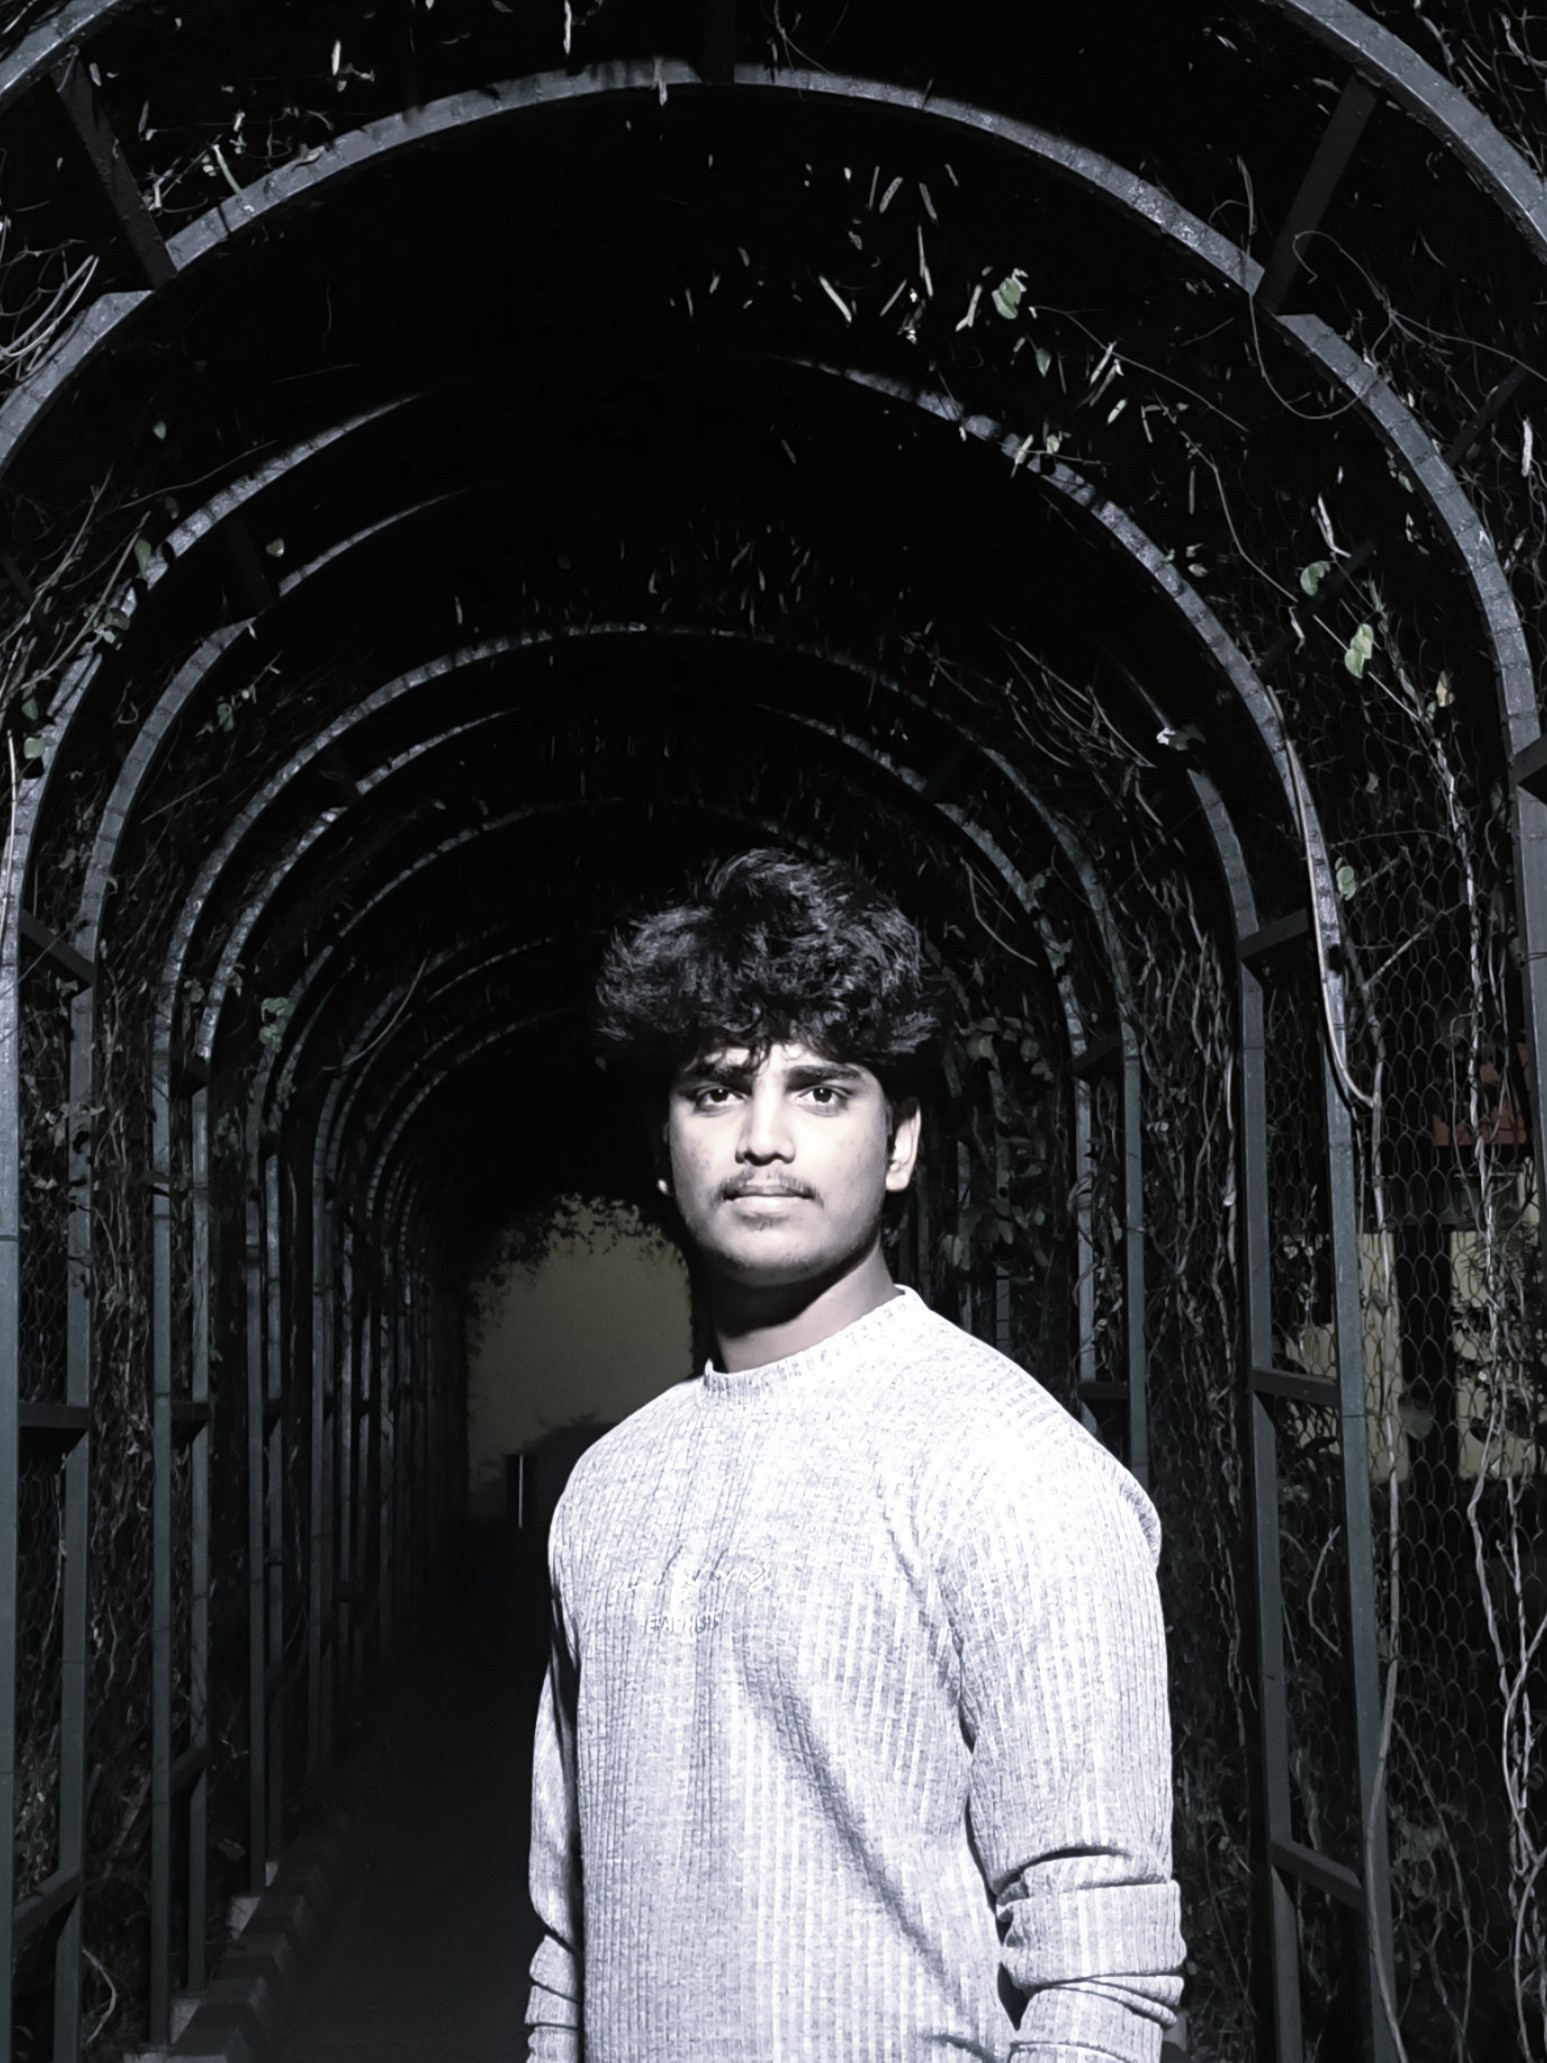
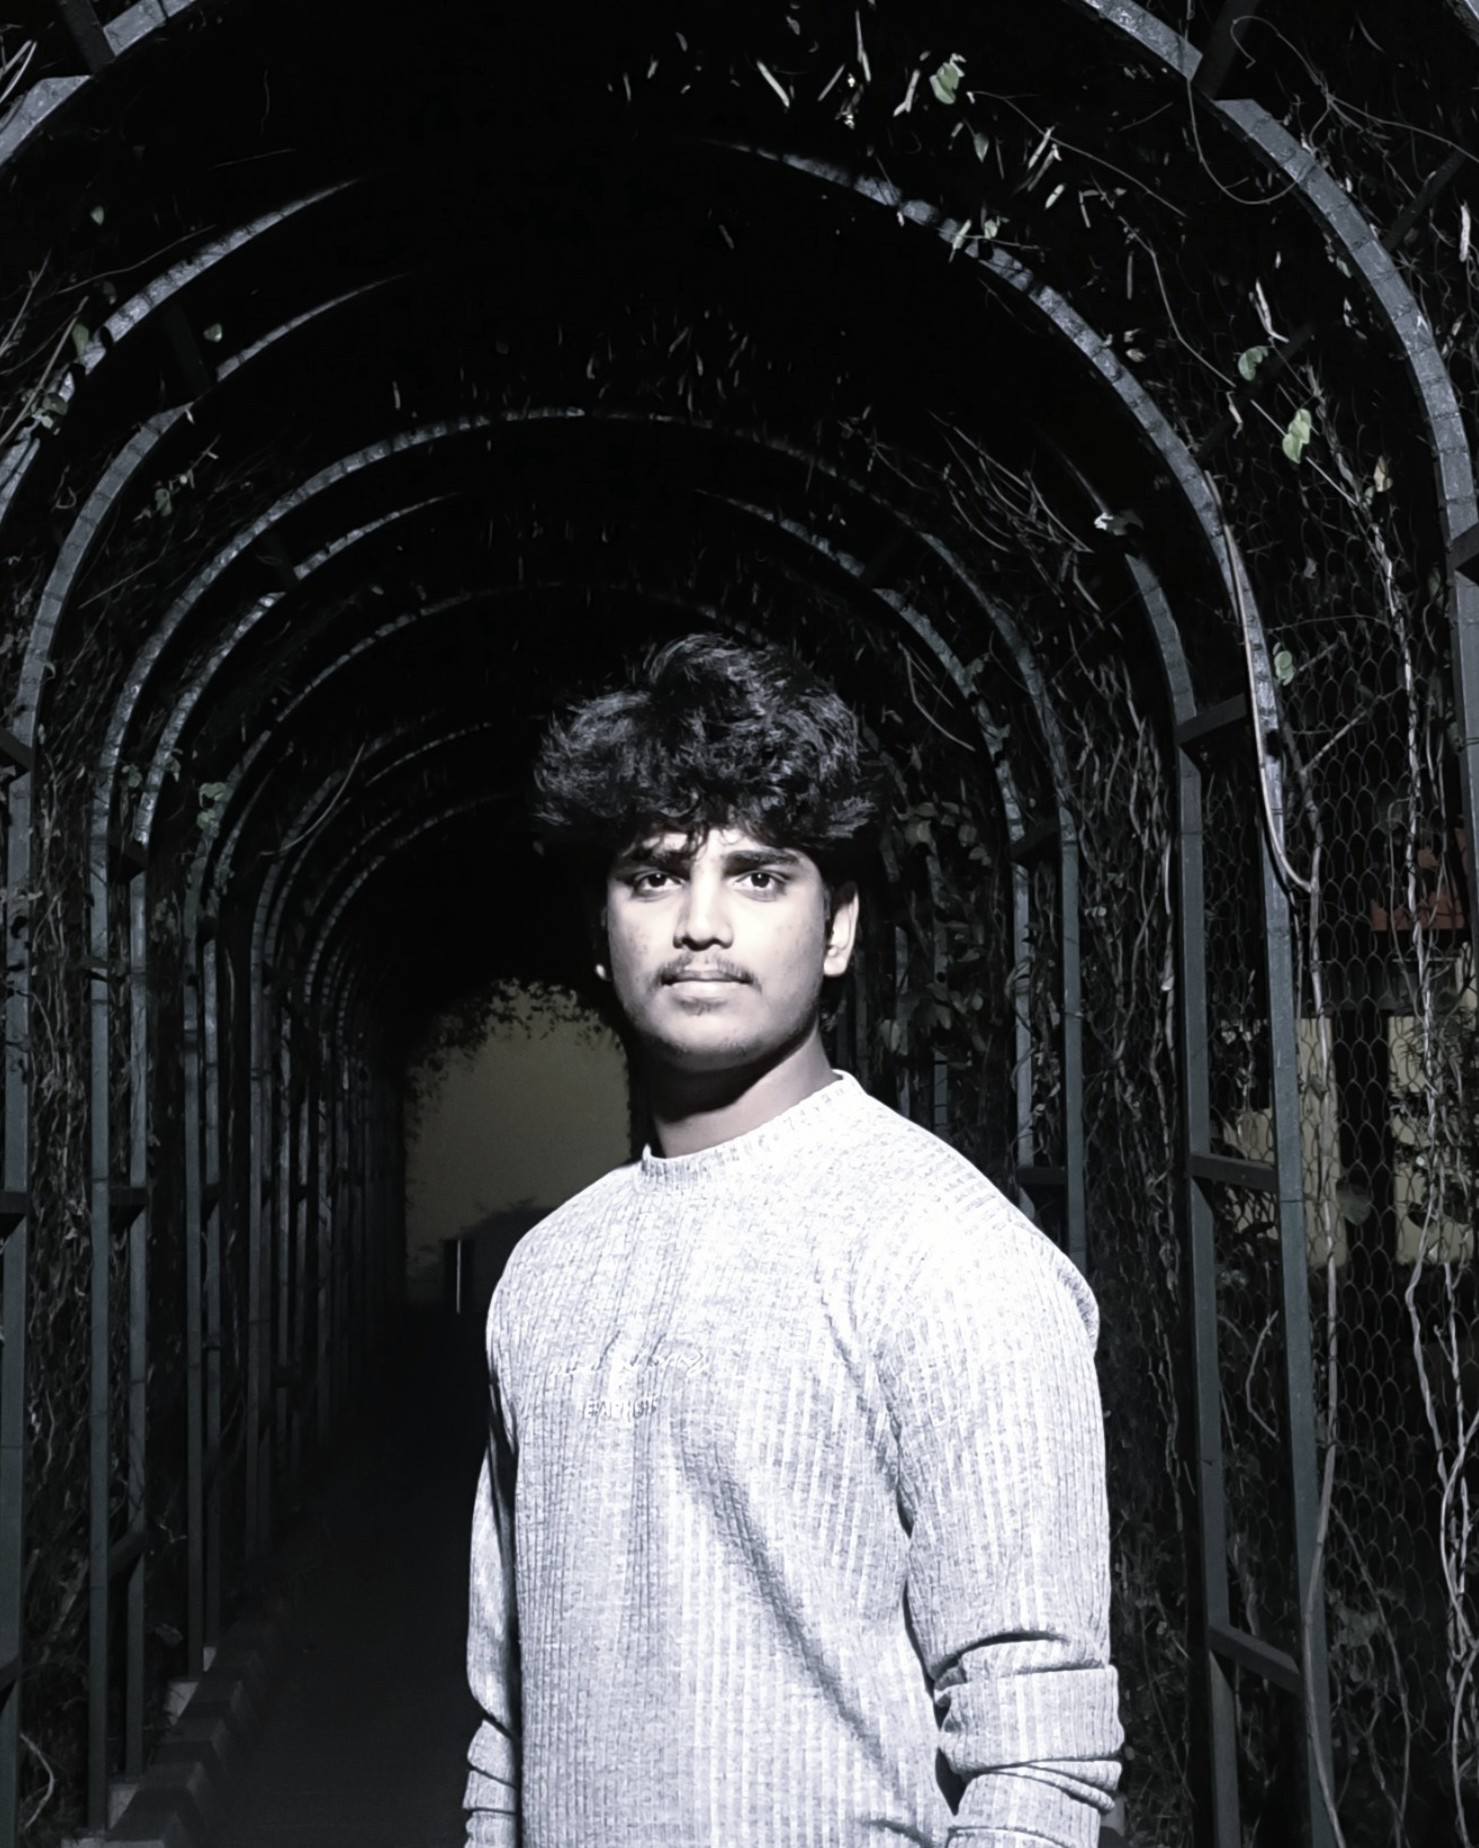
changing the design

diff --git a/src/components/sanjayn/hero.jsx b/src/components/sanjayn/hero.jsx
@@ -1,5 +1,5 @@
-import { useState, useEffect, useRef } from 'react';
-import SanjayImage from '../../assert/image/SanjayN.png';
+import { useEffect, useState } from 'react';
+import AboutImage from '../../assert/image/mine.jpg';
 
 const roles = [
   'A Freelancer',
@@ -7,24 +7,15 @@ const roles = [
   'Software Developer',
 ];
 
-const skills = [
-  { name: 'React js', color: 'from-blue-500 to-cyan-500' },
-  { name: 'Git & Github', color: 'from-gray-500 to-blue-500' },
-  { name: 'PostgreSql', color: 'from-indigo-500 to-blue-500' },
-  { name: 'Python', color: 'from-yellow-500 to-orange-500' },
-  { name: 'Java', color: 'from-green-500 to-emerald-500' },
-  { name: 'Power BI', color: 'from-purple-500 to-pink-500' },
-  { name: 'Tailwind CSS', color: 'from-teal-500 to-green-500' },
-  { name: 'JavaScript', color: 'from-red-500 to-orange-500' },
-  { name: 'ML & DL', color: 'from-pink-500 to-rose-500' },
-  { name: 'Firebase', color: 'from-purple-500 to-indigo-500' },
+const quickHighlights = [
+  'Problem-Solving Builder',
+  'Practical AI + Product Thinking',
+  'Open to Real-World Collaborations',
 ];
 
 const Hero = () => {
-  const containerRef = useRef(null);
-  const [containerSize, setContainerSize] = useState(520);
-  const [positions, setPositions] = useState({});
   const [activeRoleIndex, setActiveRoleIndex] = useState(0);
+  const [activeHighlightIndex, setActiveHighlightIndex] = useState(0);
 
   useEffect(() => {
     const timer = window.setInterval(() => {
@@ -33,96 +24,13 @@ const Hero = () => {
     return () => window.clearInterval(timer);
   }, []);
 
-  // Update container size and recalculate positions on resize
   useEffect(() => {
-    const updateSize = () => {
-      if (containerRef.current) {
-        const rect = containerRef.current.getBoundingClientRect();
-        const size = Math.min(rect.width, rect.height);
-        setContainerSize(size);
+    const timer = window.setInterval(() => {
+      setActiveHighlightIndex(prev => (prev + 1) % quickHighlights.length);
+    }, 2300);
 
-        const center = size / 2;
-        const itemsPerLayer = 5;
-        const newPositions = {};
-
-        skills.forEach((skill, index) => {
-          const layer = index < itemsPerLayer ? 1 : 2;
-          const layerIndex = layer === 1 ? index : index - itemsPerLayer;
-          const segment = 360 / itemsPerLayer;
-          const stagger = layer === 2 ? segment / 2 : 0;
-          const angleDeg = layerIndex * segment + stagger;
-          const angle = (angleDeg * Math.PI) / 180;
-
-          const baseRadius1 = 150;
-          const baseRadius2 = 240;
-          const scale = size / 520;
-          const radius = layer === 1 ? baseRadius1 * scale : baseRadius2 * scale;
-
-          const minRadius1 = 80;
-          const minRadius2 = 140;
-          const adjustedRadius = Math.max(layer === 1 ? minRadius1 : minRadius2, radius);
-
-          const x = center + adjustedRadius * Math.cos(angle);
-          const y = center + adjustedRadius * Math.sin(angle);
-
-          newPositions[skill.name] = {
-            left: `${x}px`,
-            top: `${y}px`,
-          };
-        });
-
-        setPositions(newPositions);
-      }
-    };
-
-    updateSize();
-    window.addEventListener('resize', updateSize);
-    return () => window.removeEventListener('resize', updateSize);
+    return () => window.clearInterval(timer);
   }, []);
-
-  // Calculate line positions for SVG
-  const [svgViewBox, setSvgViewBox] = useState('0 0 520 520');
-  const [lines, setLines] = useState([]);
-
-  useEffect(() => {
-    const center = containerSize / 2;
-    const itemsPerLayer = 5;
-    const baseRadius1 = 150;
-    const baseRadius2 = 240;
-    const scale = containerSize / 520;
-    const minRadius1 = 80;
-    const minRadius2 = 140;
-
-    setSvgViewBox(`0 0 ${containerSize} ${containerSize}`);
-
-    const newLines = [];
-    skills.forEach((_, index) => {
-      const layer = index < itemsPerLayer ? 1 : 2;
-      const layerIndex = layer === 1 ? index : index - itemsPerLayer;
-      const segment = 360 / itemsPerLayer;
-      const stagger = layer === 2 ? segment / 2 : 0;
-      const angle = ((layerIndex * segment + stagger) * Math.PI) / 180;
-      const radius = Math.max(layer === 1 ? minRadius1 : minRadius2, (layer === 1 ? baseRadius1 : baseRadius2) * scale);
-      const x = center + radius * Math.cos(angle);
-      const y = center + radius * Math.sin(angle);
-
-      newLines.push(
-        <line
-          key={`line-${index}`}
-          x1={center}
-          y1={center}
-          x2={x}
-          y2={y}
-          stroke="url(#lineGradient)"
-          strokeWidth={1.5}
-          strokeDasharray="3 3"
-          className="opacity-70"
-        />
-      );
-    });
-
-    setLines(newLines);
-  }, [containerSize]);
 
   const scrollToSection = (id) => {
     const element = document.getElementById(id);
@@ -171,12 +79,32 @@ const Hero = () => {
           </div>
 
           {/* Description */}
-          <p className="animate-fade-up animate-delay-300 text-silver-muted text-base md:text-lg max-w-xl mx-auto mb-6 leading-relaxed">
-            Crafting intelligent solutions at the intersection of artificial intelligence and elegant software engineering
+          <p className="animate-fade-up animate-delay-300 text-silver-muted text-base md:text-lg max-w-xl mx-auto mb-3 leading-relaxed">
+            I am passionate about solving real-world problems through practical software and intelligent solutions, and always learning and applying new ideas to make a meaningful impact.
+          </p>
+          <p className="animate-fade-up animate-delay-300 text-silver-secondary text-sm md:text-base max-w-xl mx-auto mb-6 leading-relaxed">
+            Currently pursuing B.Tech in{' '}
+            <span className="text-glow-cyan font-semibold">Artificial Intelligence and Machine Learning</span>.
+            {' '}at Kongu Engineering College.
           </p>
 
+          <div className="animate-fade-up animate-delay-400 relative h-6 overflow-hidden mb-6">
+            {quickHighlights.map((line, index) => (
+              <p
+                key={line}
+                className={`absolute inset-0 text-sm md:text-base font-medium transition-all duration-500 ${
+                  index === activeHighlightIndex
+                    ? 'translate-y-0 opacity-100 text-glow-cyan'
+                    : 'translate-y-4 opacity-0 text-silver-muted'
+                }`}
+              >
+                {line}
+              </p>
+            ))}
+          </div>
+
           {/* CTA Buttons */}
-          <div className="animate-fade-up animate-delay-400 flex flex-col sm:flex-row gap-3 justify-center lg:justify-start items-stretch sm:items-center mt-2">
+          <div className="animate-fade-up animate-delay-500 flex flex-col sm:flex-row gap-3 justify-center lg:justify-start items-stretch sm:items-center mt-2">
             <button
               onClick={() => scrollToSection('projects')}
               className="group relative px-8 py-3.5 bg-space-card border border-glow-cyan/30 rounded-xl text-silver-primary font-medium transition-all duration-500 hover-glow-cyan hover:border-glow-cyan/60 flex items-center justify-center gap-2 w-full sm:w-auto"
@@ -193,57 +121,31 @@ const Hero = () => {
           </div>
         </div>
 
-        {/* RIGHT: Visual hub — hidden on xs, visible from sm */}
-        <div className="hidden sm:flex w-full lg:w-1/2 items-center justify-center">
-          <div ref={containerRef} className="relative w-[300px] h-[300px] sm:w-[380px] sm:h-[380px] md:w-[440px] md:h-[440px] lg:w-[520px] lg:h-[520px]">
-            {/* Center main circle */}
-            <div className="absolute left-1/2 top-1/2 -translate-x-1/2 -translate-y-1/2">
-              <div className="relative w-64 h-64 sm:w-72 sm:h-72 lg:w-80 lg:h-80 max-w-full max-h-full">
-                <div className="relative w-full h-full bg-gradient-to-br from-glow-cyan to-glow-blue rounded-full flex items-center justify-center shadow-2xl border-2 border-glow-cyan/50 transform transition-transform duration-500 group-hover:scale-105">
-                  <div className="w-52 h-52 sm:w-56 sm:h-56 bg-blue-900/95 rounded-2xl flex items-center justify-center shadow-inner max-w-full max-h-full">
-                    <img
-                      src={SanjayImage}
-                      alt="Sanjay N - Full Stack Developer and AI Engineer"
-                      className="w-48 h-48 sm:w-52 sm:h-52 object-cover rounded-lg animate-float max-w-full max-h-full"
-                    />
-                  </div>
+        {/* RIGHT: Dynamic portrait */}
+        <div className="w-full lg:w-1/2 flex items-center justify-center">
+          <div className="relative w-[280px] h-[360px] sm:w-[340px] sm:h-[430px] md:w-[390px] md:h-[500px]">
+            <div className="absolute -inset-2 rounded-[2rem] bg-gradient-to-tr from-glow-cyan/45 via-transparent to-glow-blue/35 blur-lg animate-pulse" />
+
+            <div className="relative h-full w-full rounded-[2rem] border border-glow-cyan/30 bg-space-card/65 backdrop-blur-xl p-3 md:p-4">
+              <div className="relative h-full w-full overflow-hidden rounded-[1.5rem] border border-border/60 bg-space-deep">
+                <img
+                  src={AboutImage}
+                  alt="Sanjay N portrait"
+                  className="h-full w-full object-cover animate-float"
+                  loading="lazy"
+                />
+                <div className="absolute inset-0 bg-gradient-to-t from-space-deep/55 via-transparent to-transparent" />
+
+                <div className="absolute left-4 top-4 rounded-full border border-glow-cyan/45 bg-space-card/80 px-3 py-1.5 text-xs font-semibold text-glow-cyan">
+                  Freelancer
+                </div>
+
+                <div className="absolute bottom-4 left-4 right-4 rounded-xl border border-border/60 bg-space-card/80 p-3 backdrop-blur-sm">
+                  <p className="text-xs uppercase tracking-wider text-silver-muted">Now Building</p>
+                  <p className="mt-1 text-sm font-semibold text-silver-primary">Software Solutions, ML Models, and AI Integrations</p>
                 </div>
               </div>
             </div>
-
-            {/* Surrounding skill circles (dynamic positions) */}
-            {skills.map((skill) => {
-              const pos = positions[skill.name];
-              if (!pos) return null;
-
-              return (
-                <div
-                  key={skill.name}
-                  className="absolute -translate-x-1/2 -translate-y-1/2"
-                  style={{ left: pos.left, top: pos.top }}
-                >
-                  <div className="relative flex items-center justify-center" title={skill.name} tabIndex={0} role="button" aria-pressed="false"
-                    onKeyDown={(e) => { if (e.key === 'Enter' || e.key === ' ') e.currentTarget.click(); }}
-                  >
-                    {/* circle — responsive size */}
-                    <div className={`relative w-14 h-14 sm:w-16 sm:h-16 lg:w-20 lg:h-20 bg-gradient-to-br ${skill.color} rounded-full flex flex-col items-center justify-center p-2 shadow-md border border-white/20 transform transition-all duration-400 hover:scale-110 focus:scale-110 max-w-full max-h-full`}>
-                      <span className="text-[10px] sm:text-xs font-semibold text-white text-center leading-tight mt-1 max-w-[64px] truncate">{skill.name}</span>
-                    </div>
-                  </div>
-                </div>
-              );
-            })}
-
-            {/* Connecting lines — dynamic SVG */}
-            <svg className="absolute inset-0 w-full h-full pointer-events-none" viewBox={svgViewBox} preserveAspectRatio="xMidYMid meet" aria-hidden>
-              <defs>
-                <linearGradient id="lineGradient" x1="0%" y1="0%" x2="100%" y2="0%">
-                  <stop offset="0%" stopColor="#22D3EE" stopOpacity="0.35" />
-                  <stop offset="100%" stopColor="#60A5FA" stopOpacity="0.35" />
-                </linearGradient>
-              </defs>
-              {lines}
-            </svg>
           </div>
         </div>
       </div>

diff --git a/src/pages/sanjayn.jsx b/src/pages/sanjayn.jsx
@@ -6,7 +6,6 @@ import SpaceBackground from '../components/sanjayn/SpaceBackground';
 import StarCursor from '../components/sanjayn/StarCursor';
 
 // Lazy load heavy sections — each in its own Suspense boundary
-const About          = lazy(() => import('../components/sanjayn/about'));
 const Experience     = lazy(() => import('../components/sanjayn/experience'));
 const Achievements   = lazy(() => import('../components/sanjayn/achievements'));
 const Certifications = lazy(() => import('../components/sanjayn/certifications'));
@@ -71,10 +70,6 @@ const SanjayN = () => {
             still downloading, ALL of them showed the fallback (blank area between
             navbar and footer).
           */}
-          <Suspense fallback={<SectionSkeleton height="h-96" />}>
-            <About />
-          </Suspense>
-
           <Suspense fallback={<SectionSkeleton height="h-96" />}>
             <Experience />
           </Suspense>

diff --git a/src/components/sanjayn/navbar.jsx b/src/components/sanjayn/navbar.jsx
@@ -9,7 +9,6 @@ const Navbar = () => {
   const mobileToggleButtonRef = useRef(null);
   const navLinks = [
     { id: 'hero', label: 'Home' },
-    { id: 'about', label: 'About' },
     { id: 'experience', label: 'Experience' },
     { id: 'achievements', label: 'Achievements' },
     { id: 'projects', label: 'Projects' },

diff --git a/src/components/sanjayn/footer.jsx b/src/components/sanjayn/footer.jsx
@@ -28,7 +28,6 @@ const Footer = () => {
 
   const navLinks = [
     { id: 'hero',          label: 'Home' },
-    { id: 'about',         label: 'About' },
     { id: 'experience',    label: 'Experience' },
     { id: 'achievements',  label: 'Achievements' },
     { id: 'projects',      label: 'Projects' },
